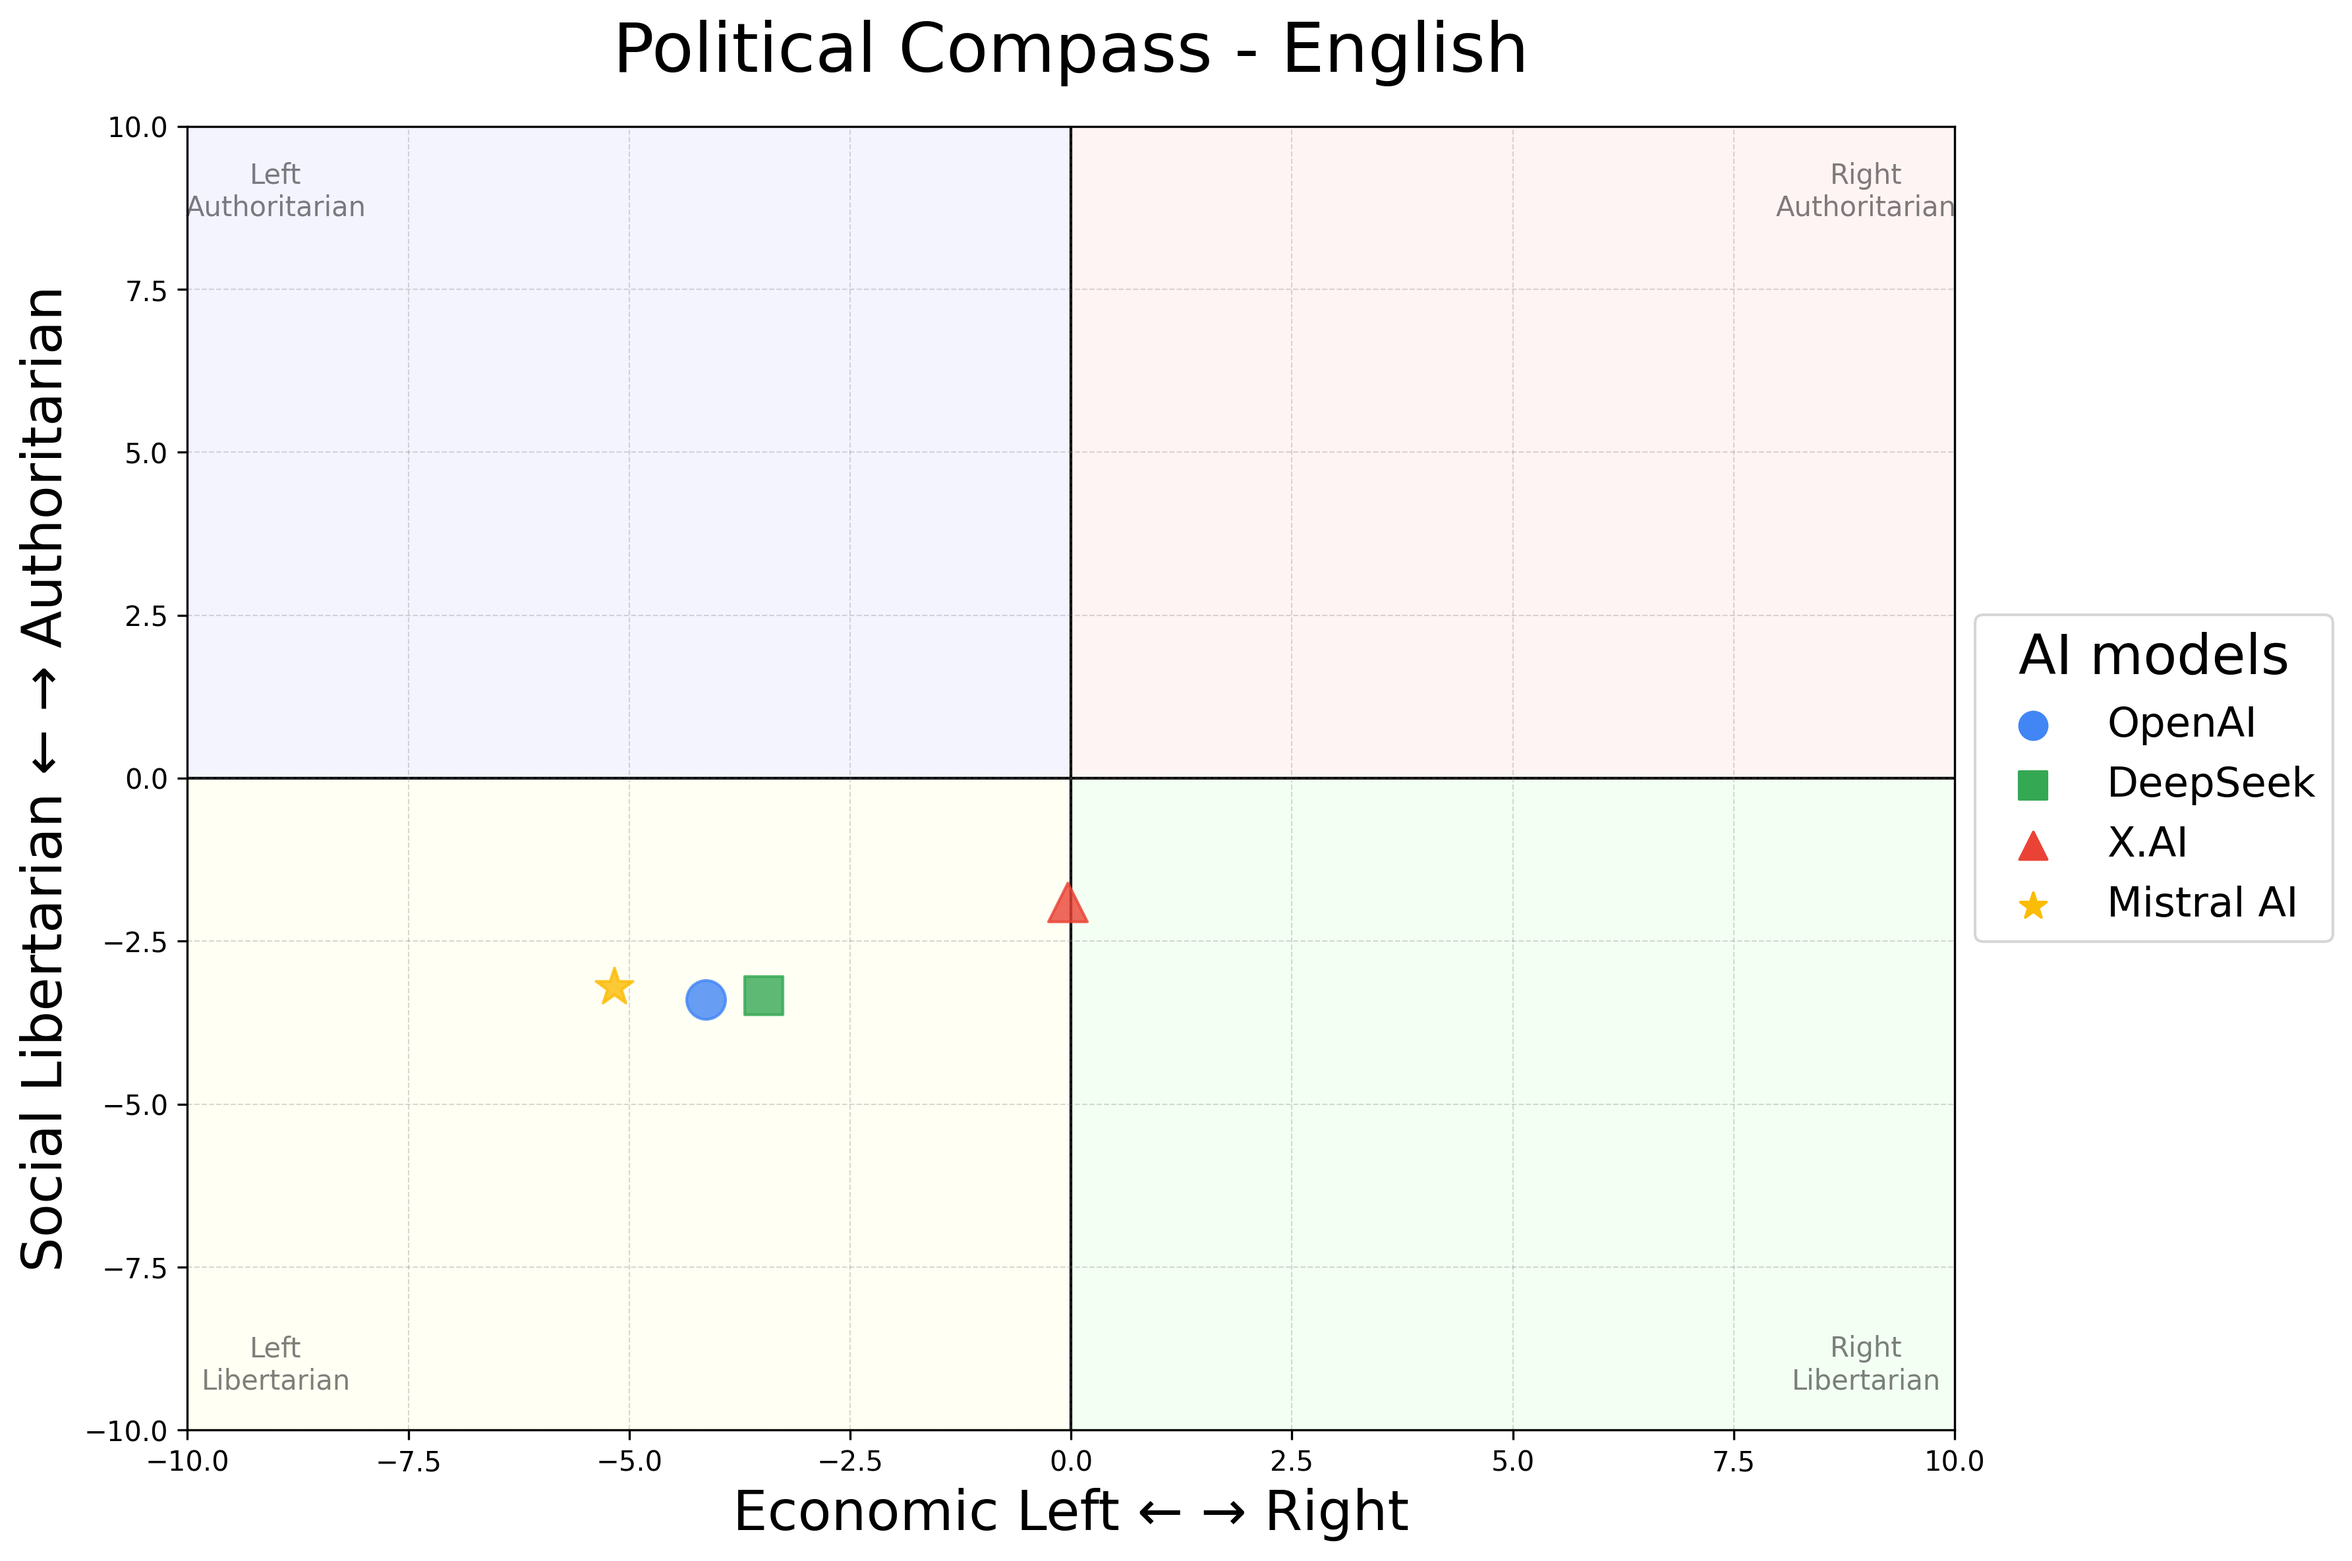
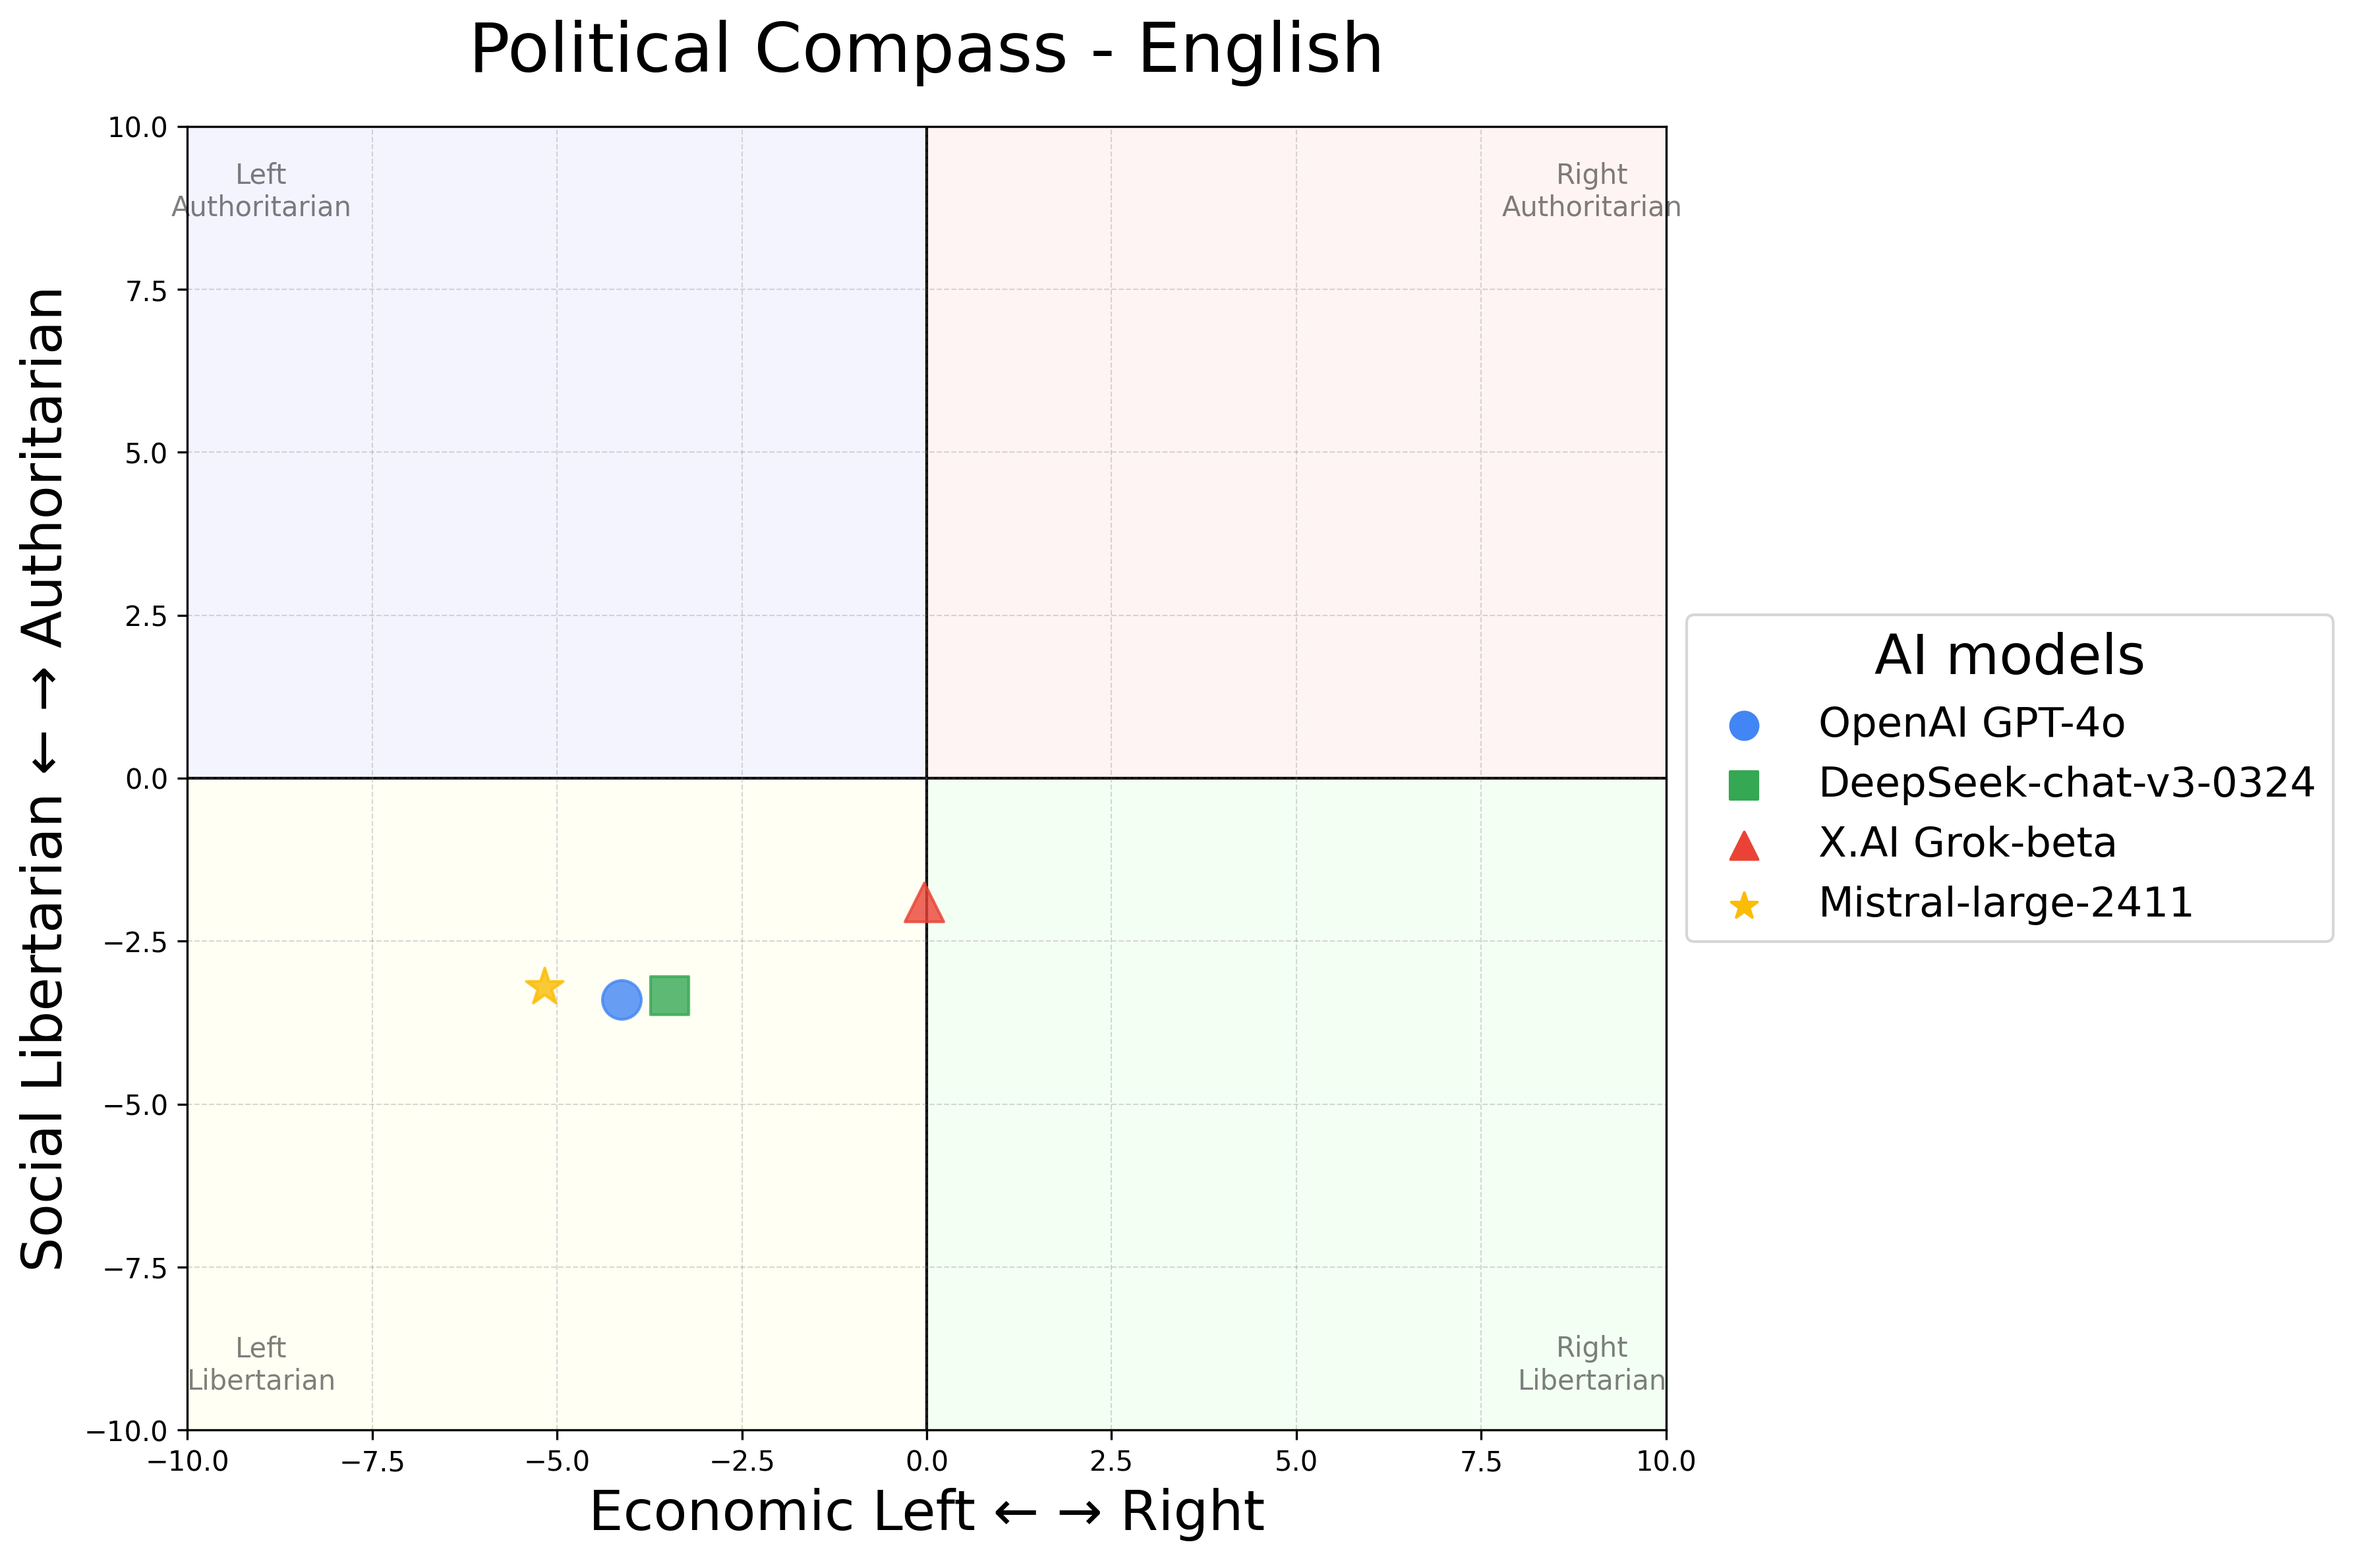
Update

diff --git a/app.py b/app.py
@@ -180,19 +180,18 @@ with gr.Blocks(theme=gr.themes.Soft(), css=css) as interface:
         with gr.Column():
             gr.Markdown('#### What is this ?')
             gr.Markdown("""
-The animation shows how generative AI models shift on the political compass when switching from English to French prompts.
+The interface allows to compare the political compass of four models (OpenAI GPT-4o, DeepSeek DeepSeek-chat-v3-0324, X-ai Grok-beta, MistralAI Mistral-large-2411) on a set of 62 political questions from the [Political Compass](https://politicalcompass.org/).
 
-The question bank is a set of 62 political questions from the [Political Compass](https://politicalcompass.org/).
-
-Four models were tested:
-- OpenAI GPT-4o
-- DeepSeek DeepSeek-chat-v3-0324
-- X-ai Grok-beta
-- MistralAI Mistral-large-2411
+A couple of highlights:
+- All state-of-the-art LLMs tend to show a left-of-center political leaning (check out [David Rozado's work](https://davidrozado.substack.com/p/new-results-of-state-of-the-art-llms) for a more comprehensive analysis)
+- The X.ai Grok-beta and OpenAI GPT-4o models show the greatest change when switching from English to French prompts, making them even more polarized. 
+- The Mistral-large-2411 model (by French company Mistral) shows the opposite behaviour, becoming less polarized when prompted in French.
 
 All questions were asked three times, and the scores are averaged to compute the final political compass.
 
-Details of the model answers and scores are available below.
+Details of the model answers and scores are available below. 
+
+The code and methodology are available on [GitHub](https://github.com/Yannael/ai-political-bias).
             """)
 
         with gr.Column():
@@ -262,26 +261,26 @@ These two maps show the political compass of the models.
                 corresponding_question = questions['questions_fr'].iloc[idx]
             
             # Get content for both languages
-            fig_fr, fig_en, md_fr, md_en = update_content(questions['questions_fr'].iloc[idx], questions['questions_en'].iloc[idx])
+            fig_en, fig_fr, md_en, md_fr = update_content(questions['questions_en'].iloc[idx], questions['questions_fr'].iloc[idx])
         
             return [
                 corresponding_question,  # Update other dropdown
-                fig_fr, fig_en,         # Update plots
-                md_fr, md_en           # Update markdown content
+                fig_en, fig_fr,         # Update plots
+                md_en, md_fr           # Update markdown content
             ]
     
         # Update content when French dropdown changes
         dropdown_fr.change(
             fn=lambda q: sync_questions(q, 'fr'),
             inputs=[dropdown_fr],
-            outputs=[dropdown_en, plot_fr, plot_en, answers_fr, answers_en]
+            outputs=[dropdown_en, plot_en, plot_fr, answers_en, answers_fr]
         )
     
         # Update content when English dropdown changes
         dropdown_en.change(
             fn=lambda q: sync_questions(q, 'en'),
             inputs=[dropdown_en],
-            outputs=[dropdown_fr, plot_fr, plot_en, answers_fr, answers_en]
+            outputs=[dropdown_fr, plot_en, plot_fr, answers_en, answers_fr]
         )
     
     
@@ -292,7 +291,7 @@ These two maps show the political compass of the models.
         gr.Markdown("""
 Made with ❤ by [Yann-Aël Le Borgne](https://www.linkedin.com/in/yannaelb/)
 
-Source code: [GitHub](https://github.com/yalb/ai-political-bias)
+Source code: [GitHub](https://github.com/Yannael/ai-political-bias)
 
 Inspired by:
 - [David Rozado's work](https://davidrozado.substack.com/p/new-results-of-state-of-the-art-llms)

diff --git a/generate_plots.py b/generate_plots.py
@@ -132,10 +132,10 @@ def gen_compass_fr_en(filename_prefix="political_compass"):
     
     # Define colors and markers for different model families
     model_styles = {
-        'openai': {'color': '#4285F4', 'marker': 'o', 'name': 'OpenAI'},
-        'deepseek': {'color': '#34A853', 'marker': 's', 'name': 'DeepSeek'},
-        'x-ai': {'color': '#EA4335', 'marker': '^', 'name': 'X.AI'},
-        'mistralai': {'color': '#FBBC05', 'marker': '*', 'name': 'Mistral AI'}
+        'openai': {'color': '#4285F4', 'marker': 'o', 'name': 'OpenAI GPT-4o'},
+        'deepseek': {'color': '#34A853', 'marker': 's', 'name': 'DeepSeek-chat-v3-0324'},
+        'x-ai': {'color': '#EA4335', 'marker': '^', 'name': 'X.AI Grok-beta'},
+        'mistralai': {'color': '#FBBC05', 'marker': '*', 'name': 'Mistral-large-2411'}
     }
     
     # Function to setup axis
@@ -269,10 +269,10 @@ def animate_compass(filename_prefix="political_compass_animation", save_as_gif=T
 
     # Model styles
     model_styles = {
-        'openai': {'color': '#4285F4', 'marker': 'o', 'name': 'OpenAI'},
-        'deepseek': {'color': '#34A853', 'marker': 's', 'name': 'DeepSeek'},
-        'x-ai': {'color': '#EA4335', 'marker': '^', 'name': 'X.AI'},
-        'mistralai': {'color': '#FBBC05', 'marker': '*', 'name': 'Mistral AI'}
+        'openai': {'color': '#4285F4', 'marker': 'o', 'name': 'OpenAI GPT-4o'},
+        'deepseek': {'color': '#34A853', 'marker': 's', 'name': 'DeepSeek-chat-v3-0324'},
+        'x-ai': {'color': '#EA4335', 'marker': '^', 'name': 'X.AI Grok-beta'},
+        'mistralai': {'color': '#FBBC05', 'marker': '*', 'name': 'Mistral-large-2411'}
     }
 
     fig, ax = plt.subplots(figsize=(12, 8))
@@ -340,7 +340,7 @@ def animate_compass(filename_prefix="political_compass_animation", save_as_gif=T
         ax.clear()
         setup_background()
         t = frame / (num_frames - 1)
-        ax.set_title(f"\nFrom English (step 1) to French (step 30) \n\n Political Compass Transition (Step {frame+1}/{num_frames})", fontsize=20)
+        ax.set_title(f"How do AI poilitical biases differ between English and French?\n\nFrom English (step 1) to French (step 30) (Step {frame+1}/{num_frames})", fontsize=20)
 
         for pt in points:
             interp = (1 - t) * pt["start"] + t * pt["end"]

diff --git a/README.md b/README.md
@@ -4,7 +4,7 @@ Check out the interface on HuggingFace: https://huggingface.co/spaces/Yannael/ge
 
 ## How it works
 
-The interface allows to compare the political compass of four models (OpenAI GPT-4o, DeepSeek DeepSeek-chat-v3-0324, X-ai Grok-beta, MistralAI Mistral-large-2411) on a set of 63 political questions from the [Political Compass](https://politicalcompass.org/).
+The interface allows to compare the political compass of four models (OpenAI GPT-4o, DeepSeek DeepSeek-chat-v3-0324, X-ai Grok-beta, MistralAI Mistral-large-2411) on a set of 62 political questions from the [Political Compass](https://politicalcompass.org/).
 
 The political compass is computed by averaging the scores of the models on each question.
 
